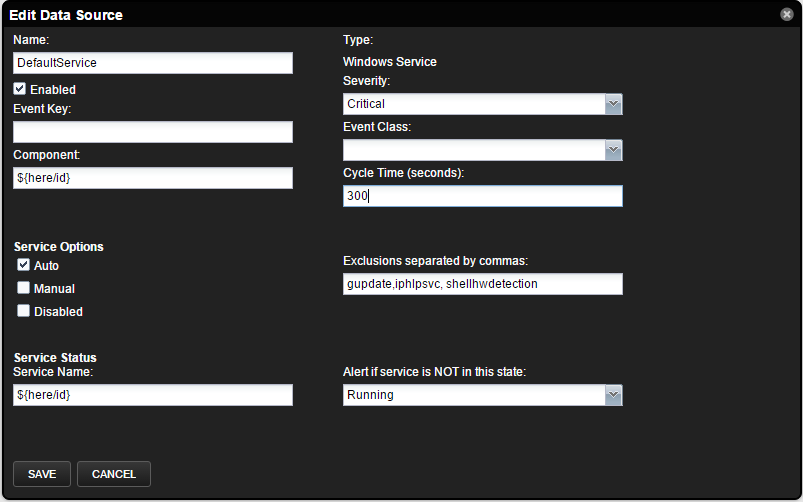
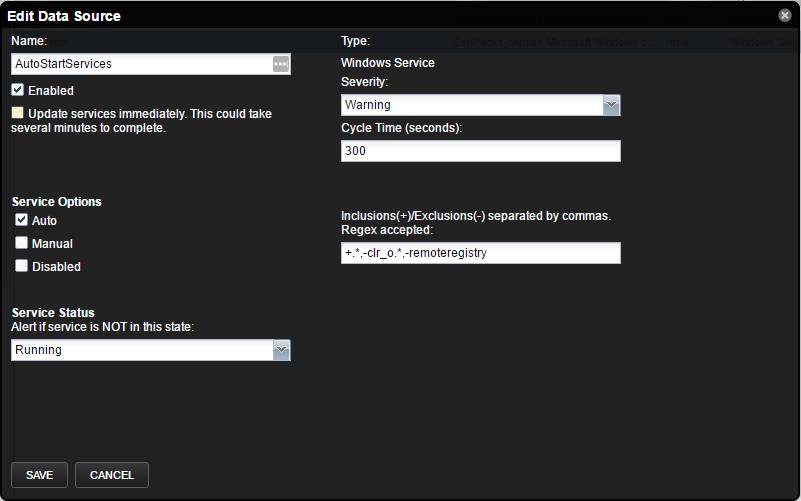
Only run reindex job when specified
Fixes ZEN-24375

Because there can be thousands of services, we need to only run when
necessary or wanted.  Editing several datasources would kick off a job
whenever something would change.  When making several changes we should
hold off until the user is ready to update.  Updated wiki outlining this
change.  Also removed some unnecessary options from the datasource.

update readme

diff --git a/ZenPacks/zenoss/Microsoft/Windows/datasources/ServiceDataSource.py b/ZenPacks/zenoss/Microsoft/Windows/datasources/ServiceDataSource.py
@@ -76,6 +76,7 @@ class ServiceDataSource(PythonDataSource):
     alertifnot = 'Running'
     startmode = ''
     in_exclusions = '+.*'
+    reindex = False
 
     plugin_classname = ZENPACKID + \
         '.datasources.ServiceDataSource.ServicePlugin'
@@ -85,6 +86,7 @@ class ServiceDataSource(PythonDataSource):
         {'id': 'alertifnot', 'type': 'string'},
         {'id': 'startmode', 'type': 'string'},
         {'id': 'in_exclusions', 'type': 'string'},
+        {'id': 'reindex', 'type': 'boolean'}
     )
 
     def getAffectedServices(self):
@@ -127,14 +129,12 @@ class IServiceDataSourceInfo(IInfo):
 
     severity = schema.TextLine(title=_t(u'Severity'),
                                xtype='severity')
-    component = schema.TextLine(title=_t(u'Component'))
+
+    reindex = schema.Bool(
+        title=_t('Update services immediately.  This could take several minutes to complete.'))
 
     cycletime = schema.TextLine(
         title=_t(u'Cycle Time (seconds)'))
-
-    servicename = schema.TextLine(
-        group=_t('Service Status'),
-        title=_t('Service Name'))
 
     alertifnot = schema.Choice(
         group=_t('Service Status'),
@@ -161,42 +161,11 @@ class ServiceDataSourceInfo(InfoBase):
 
     testable = False
     cycletime = ProxyProperty('cycletime')
-    servicename = ProxyProperty('servicename')
-
-    def __init__(self, object):
-        super(ServiceDataSourceInfo, self).__init__(object)
-
-        self._reindex = False
-
-    def get_enabled(self):
-        return self._object.enabled
-
-    def set_enabled(self, value):
-        self._object.enabled = value
-        self._reindex = True
-
-    component = ProxyProperty('component')
-
-    def get_alertifnot(self):
-        return self._object.alertifnot
-
-    def set_alertifnot(self, value):
-        self._object.alertifnot = value
-        self._reindex = True
-
-    def get_startmode(self):
-        return self._object.startmode
-
-    def set_startmode(self, value):
-        self._object.startmode = value
-        self._reindex = True
-
-    def get_in_exclusions(self):
-        return self._object.in_exclusions
-
-    def set_in_exclusions(self, value):
-        self._object.in_exclusions = value
-        self._reindex = True
+    reindex = ProxyProperty('reindex')
+    enabled = ProxyProperty('enabled')
+    alertifnot = ProxyProperty('alertifnot')
+    startmode = ProxyProperty('startmode')
+    in_exclusions = ProxyProperty('in_exclusions')
 
     @property
     def type(self):
@@ -219,17 +188,12 @@ class ServiceDataSourceInfo(InfoBase):
         return self._object.severity
 
     def post_update(self):
-        if self._reindex:
+        if self.reindex:
             self._object.dmd.JobManager.addJob(ReindexWinServices,
                                                kwargs=dict(uid=self.uid))
             self._reindex = False
 
     severity = property(get_severity, set_severity)
-    enabled = property(get_enabled, set_enabled)
-
-    startmode = property(get_startmode, set_startmode)
-    in_exclusions = property(get_in_exclusions, set_in_exclusions)
-    alertifnot = property(get_alertifnot, set_alertifnot)
 
 
 class ServicePlugin(PythonDataSourcePlugin):
